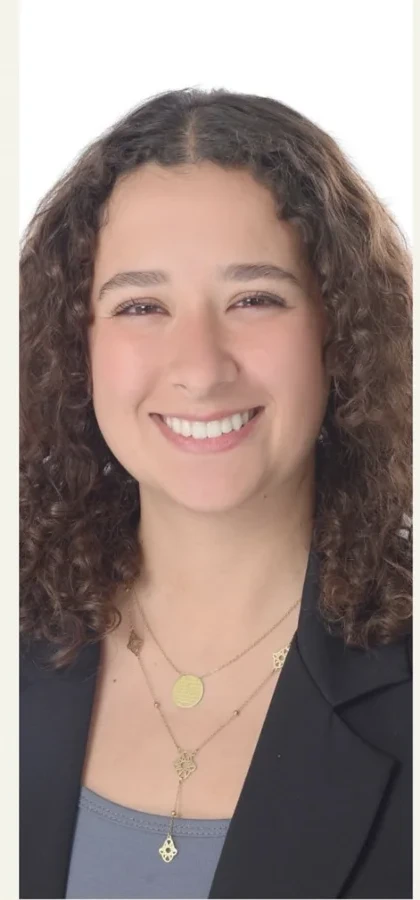
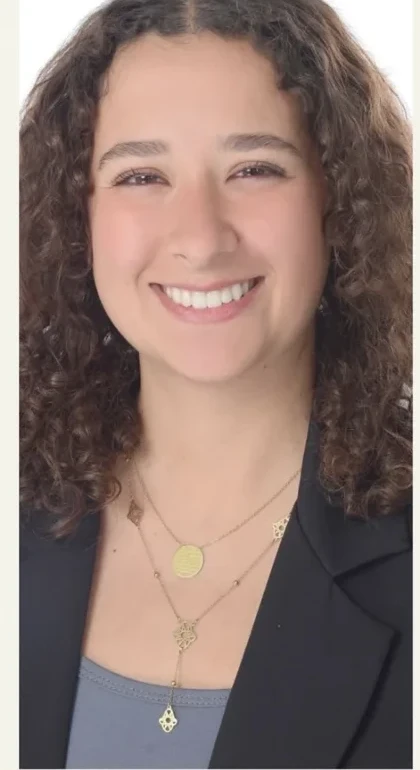
Fix mobile layout issues, hero text contrast, and remaining photo edges
- Testimonials grid was a hardcoded 3-column inline style with a mobile
  override that only matched via attribute selector on that inline
  style - moved to a real .testimonials-grid class with proper
  1024px/768px breakpoints, fixing the squished mobile layout.
- Hero text now carries a text-shadow and the overlay gradient is
  darker, since video frame brightness varies enough that color alone
  wasn't reliably readable against lighter frames.
- Imane Tazi, Malak El Shafaei, Mariam Azzazi, and Hana Habib still had
  a visible slice of the About Me template's white/gray panel at their
  crop edges - tightened all four, cache-busted since filenames didn't change.
- Added a low-opacity Admin link next to the footer copyright line.

diff --git a/index.html b/index.html
@@ -345,8 +345,8 @@
     </a>
     <a href="profile.html?slug=imane-tazi" class="team-card reveal reveal-delay-3">
       <div class="team-photo-wrap">
-        <img class="photo-bg" src="assets/img/team/imane-tazi.webp?v=2" alt="" aria-hidden="true" />
-        <img class="photo-fg" src="assets/img/team/imane-tazi.webp?v=2" alt="Imane Tazi" />
+        <img class="photo-bg" src="assets/img/team/imane-tazi.webp?v=3" alt="" aria-hidden="true" />
+        <img class="photo-fg" src="assets/img/team/imane-tazi.webp?v=3" alt="Imane Tazi" />
         <div class="team-overlay"></div>
       </div>
       <div class="team-name">Imane Tazi</div>
@@ -354,8 +354,8 @@
     </a>
     <a href="profile.html?slug=malak-el-shafaei" class="team-card reveal">
       <div class="team-photo-wrap">
-        <img class="photo-bg" src="assets/img/team/malak-el-shafaei.webp?v=2" alt="" aria-hidden="true" />
-        <img class="photo-fg" src="assets/img/team/malak-el-shafaei.webp?v=2" alt="Malak El Shafaei" />
+        <img class="photo-bg" src="assets/img/team/malak-el-shafaei.webp?v=3" alt="" aria-hidden="true" />
+        <img class="photo-fg" src="assets/img/team/malak-el-shafaei.webp?v=3" alt="Malak El Shafaei" />
         <div class="team-overlay"></div>
       </div>
       <div class="team-name">Malak El Shafaei</div>
@@ -417,8 +417,8 @@
     </a>
     <a href="profile.html?slug=mariam-azzazi" class="team-card reveal reveal-delay-3">
       <div class="team-photo-wrap">
-        <img class="photo-bg" src="assets/img/team/mariam-azzazi.webp?v=2" alt="" aria-hidden="true" />
-        <img class="photo-fg" src="assets/img/team/mariam-azzazi.webp?v=2" alt="Mariam Azzazi" />
+        <img class="photo-bg" src="assets/img/team/mariam-azzazi.webp?v=3" alt="" aria-hidden="true" />
+        <img class="photo-fg" src="assets/img/team/mariam-azzazi.webp?v=3" alt="Mariam Azzazi" />
         <div class="team-overlay"></div>
       </div>
       <div class="team-name">Mariam Azzazi</div>
@@ -426,8 +426,8 @@
     </a>
     <a href="profile.html?slug=hana-habib" class="team-card reveal">
       <div class="team-photo-wrap">
-        <img class="photo-bg" src="assets/img/team/hana-habib.webp?v=2" alt="" aria-hidden="true" />
-        <img class="photo-fg" src="assets/img/team/hana-habib.webp?v=2" alt="Hana Habib" />
+        <img class="photo-bg" src="assets/img/team/hana-habib.webp?v=3" alt="" aria-hidden="true" />
+        <img class="photo-fg" src="assets/img/team/hana-habib.webp?v=3" alt="Hana Habib" />
         <div class="team-overlay"></div>
       </div>
       <div class="team-name">Hana Habib</div>
@@ -509,7 +509,7 @@
 <section id="testimonials" class="section" style="background:var(--parchment);">
   <div class="section-label reveal">What Our Clients Say</div>
   <h2 class="section-title reveal reveal-delay-1" style="margin-bottom:3.5rem;">Words that <em>stay with us.</em></h2>
-  <div style="display:grid;grid-template-columns:repeat(3,1fr);gap:2rem;">
+  <div class="testimonials-grid">
 
     <div class="reveal" style="background:var(--cream);border-radius:6px;padding:2.4rem 2rem;position:relative;">
       <div style="font-family:'Cormorant Garamond',serif;font-size:4rem;line-height:.5;color:var(--blush);margin-bottom:1.2rem;">"</div>
@@ -716,7 +716,7 @@
       <a href="#team">Team</a>
       <a href="#contact">Contact</a>
     </div>
-    <div class="footer-copy">© 2024 Gaia Wellbeing, Egypt. All rights reserved.</div>
+    <div class="footer-copy">© 2024 Gaia Wellbeing, Egypt. All rights reserved. <a href="admin-panel/" class="footer-admin-link">Admin</a></div>
   </div>
 </footer>
 

diff --git a/css/main.css b/css/main.css
@@ -101,22 +101,24 @@ body::before {
   position: absolute; inset: 0;
   background: linear-gradient(
     to bottom,
-    rgba(30,24,20,.52) 0%,
-    rgba(30,24,20,.38) 40%,
-    rgba(30,24,20,.62) 100%
+    rgba(20,16,13,.62) 0%,
+    rgba(20,16,13,.5) 40%,
+    rgba(20,16,13,.68) 100%
   );
 }
 
 .hero-content { position: relative; z-index: 3; padding: 0 8vw; max-width: 660px; }
 
-/* Override text colors for dark hero */
-#hero .hero-eyebrow { color: rgba(245,239,228,.65); }
-#hero .hero-eyebrow::before { background: rgba(245,239,228,.45); }
-#hero .hero-title { color: var(--cream); }
+/* Override text colors for dark hero. Video content brightness varies frame to
+   frame, so a text-shadow (not just the overlay above) keeps text legible even
+   over lighter patches. */
+#hero .hero-eyebrow { color: rgba(245,239,228,.75); text-shadow: 0 1px 10px rgba(0,0,0,.5); }
+#hero .hero-eyebrow::before { background: rgba(245,239,228,.5); }
+#hero .hero-title { color: var(--cream); text-shadow: 0 2px 16px rgba(0,0,0,.55); }
 #hero .hero-title em { color: var(--blush); }
-#hero .hero-sub { color: rgba(245,239,228,.7); }
-#hero .stat-num { color: var(--cream); }
-#hero .stat-label { color: rgba(245,239,228,.55); }
+#hero .hero-sub { color: rgba(245,239,228,.85); text-shadow: 0 1px 12px rgba(0,0,0,.5); }
+#hero .stat-num { color: var(--cream); text-shadow: 0 1px 10px rgba(0,0,0,.5); }
+#hero .stat-label { color: rgba(245,239,228,.7); text-shadow: 0 1px 8px rgba(0,0,0,.5); }
 #hero .stat-divider { background: rgba(245,239,228,.2); }
 #hero .btn-ghost { color: var(--cream); border-color: rgba(245,239,228,.35); }
 #hero .btn-ghost:hover { border-color: var(--cream); }
@@ -347,6 +349,7 @@ body::before {
 
 /* ── TESTIMONIALS ── */
 #testimonials { background: var(--parchment); text-align: center; }
+.testimonials-grid { display: grid; grid-template-columns: repeat(3, 1fr); gap: 2rem; }
 
 /* ── CONTACT ── */
 #contact { background: var(--cream); }
@@ -360,6 +363,8 @@ footer { background: var(--warm); color: rgba(245,239,228,.5); padding: 3.5rem 7
 .footer-links a { font-size: .68rem; letter-spacing: .14em; text-transform: uppercase; color: rgba(245,239,228,.42); text-decoration: none; transition: color .2s; }
 .footer-links a:hover { color: rgba(245,239,228,.82); }
 .footer-copy { font-size: .7rem; letter-spacing: .05em; }
+.footer-admin-link { color: rgba(245,239,228,.22); text-decoration: none; margin-left: .8rem; transition: color .3s; }
+.footer-admin-link:hover { color: rgba(245,239,228,.55); }
 
 .footer-branches { display: grid; grid-template-columns: 1fr 1fr; gap: 2.5rem; margin-bottom: 2.8rem; }
 .footer-branch-label { font-size: .68rem; letter-spacing: .18em; text-transform: uppercase; color: rgba(245,239,228,.4); margin-bottom: .5rem; }
@@ -387,6 +392,7 @@ footer { background: var(--warm); color: rgba(245,239,228,.5); padding: 3.5rem 7
 @media (max-width: 1024px) {
   .team-grid { grid-template-columns: repeat(3, 1fr); }
   .services-grid { grid-template-columns: repeat(2, 1fr); }
+  .testimonials-grid { grid-template-columns: 1fr 1fr; gap: 1.5rem; }
 }
 @media (max-width: 768px) {
   /* Nav */
@@ -422,7 +428,7 @@ footer { background: var(--warm); color: rgba(245,239,228,.5); padding: 3.5rem 7
   .methods-grid { grid-template-columns: 1fr 1fr; }
 
   /* Testimonials */
-  #testimonials > div > div[style*="repeat(3"] { grid-template-columns: 1fr !important; gap: 1.2rem !important; }
+  .testimonials-grid { grid-template-columns: 1fr; gap: 1.2rem; }
 
   /* Contact */
   #contact > div { grid-template-columns: 1fr !important; gap: 2rem !important; }
